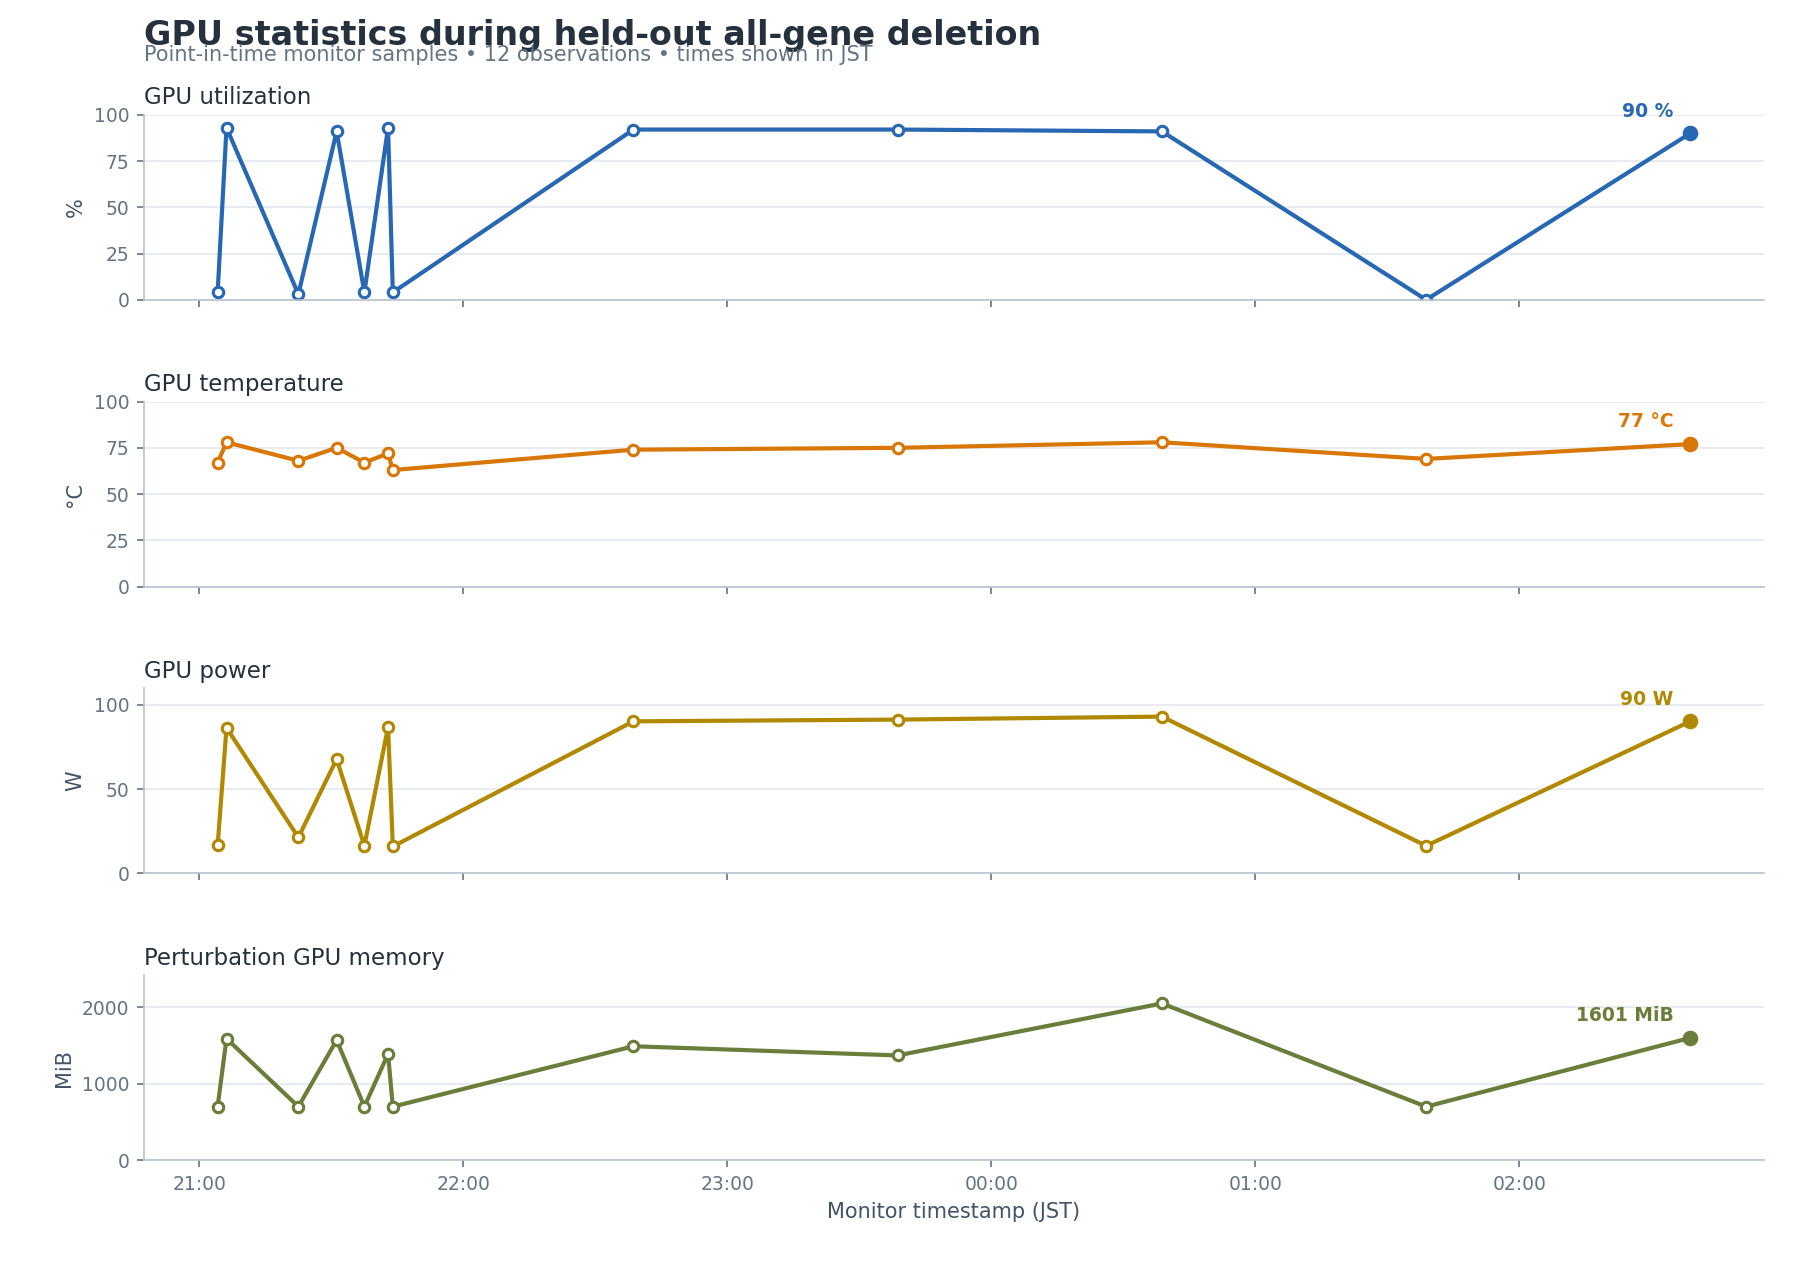
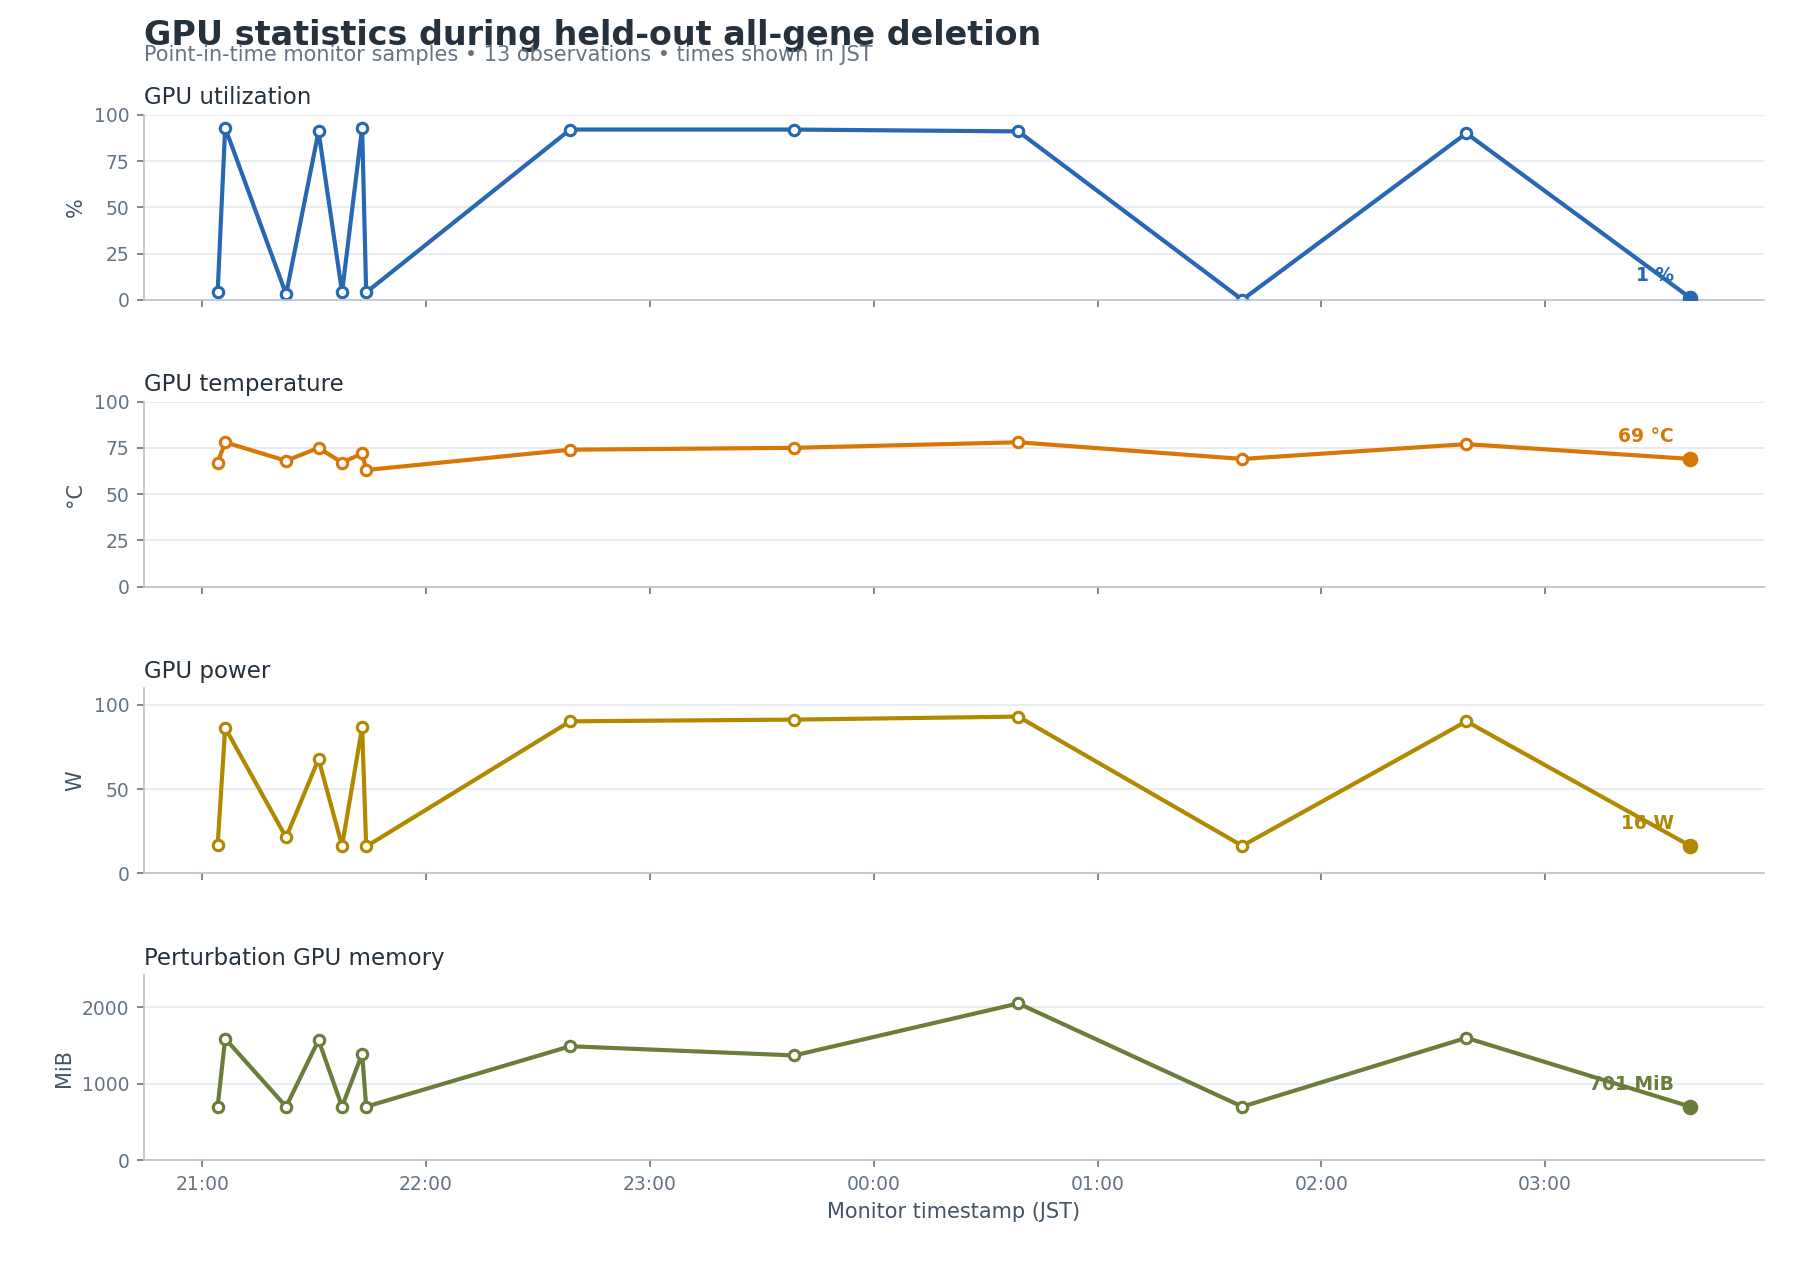
monitor: update perturbation status 2026-07-18 03:38 JST

diff --git a/current_workflow/monitoring/GPU_PROGRESS_REPORT.md b/current_workflow/monitoring/GPU_PROGRESS_REPORT.md
@@ -14,6 +14,39 @@ Newest snapshots appear first. Existing entries are retained below; the machine-
 
 ---
 
+## Snapshot — 2026-07-18T03:38:55+09:00
+
+Run status: **RUNNING**
+
+Overall cell progress: **1,037 / 3,379 (30.69%)**
+
+### GPU and memory
+
+| Metric | Current value |
+|---|---:|
+| GPU | NVIDIA GB10 |
+| GPU utilization | 1% |
+| GPU temperature | 69 C |
+| GPU power | 16.3 W |
+| Perturbation GPU memory | 701 MiB |
+| System memory used | 41.1 GiB |
+| System memory available | 78.6 GiB |
+| Swap used | 0.0 GiB |
+
+### Perturbation progress
+
+| Source | Cells written | Shards complete | Raw files |
+|---|---:|---:|---:|
+| LUSC | 560 / 560 (100.00%) | 23 / 23 | 1,120 |
+| LUAD | 477 / 1,411 (33.81%) | 19 / 57 | 954 |
+| NORMAL | 0 / 1,408 (0.00%) | 0 / 57 | 0 |
+
+Statistics are generated after all shards for a source state complete. Cell
+counts include only cells with both raw checkpoint batches present.
+
+
+---
+
 ## Snapshot — 2026-07-18T02:38:52+09:00
 
 Run status: **RUNNING**
